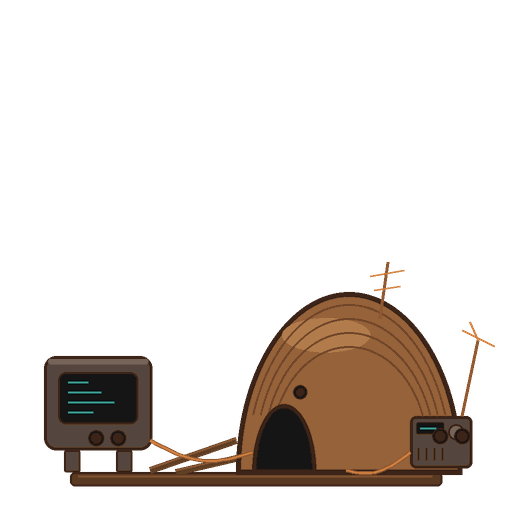
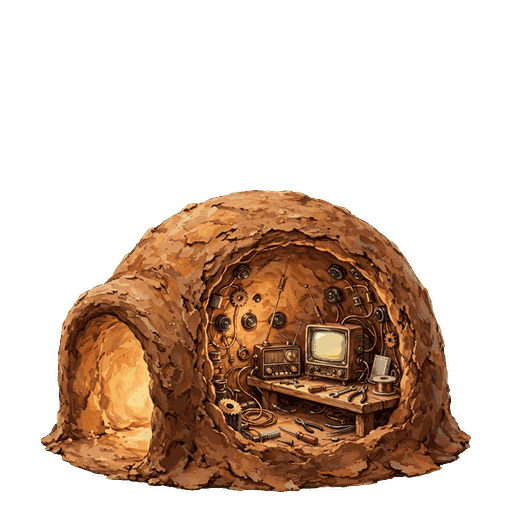
art(companion): definitive illustrated Nest workshop
Replaces the procedural final-stage dome with the reviewed
clay-oven workshop master (side entrance, CRT, radio, antennas,
tools), aligned screen rect and light sockets to the new art.
Earlier construction stages keep the procedural evolution.

diff --git a/scripts/companion_nest.py b/scripts/companion_nest.py
@@ -11,6 +11,8 @@ Stages: none, twigs, cup, dome, home. Drawn at 2x and downscaled.
 """
 from __future__ import annotations
 
+from pathlib import Path
+
 import math
 
 from PIL import Image, ImageDraw
@@ -42,14 +44,14 @@ SOCKET = (30, 20, 16, 255)
 # Light sockets (canvas px): id -> (x, y, radius, role). Roles are the
 # real states the runtime binds them to; the art never lights them.
 LIGHTS = {
-    "link": (96, 438, 6, "assistant-link"),
-    "run": (118, 438, 6, "assistant-run"),
-    "approval": (440, 436, 6, "approval"),
-    "radio": (462, 436, 6, "radio"),
-    "mode": (300, 392, 5, "mode"),
+    "link": (255, 385, 6, "assistant-link"),
+    "run": (280, 385, 6, "assistant-run"),
+    "approval": (415, 395, 6, "approval"),
+    "radio": (440, 395, 6, "radio"),
+    "mode": (321, 285, 5, "mode"),
 }
 # CRT screen rectangle (canvas px) for the runtime phosphor overlay.
-SCREEN_RECT = (58, 372, 138, 424)
+SCREEN_RECT = (294, 261, 349, 317)
 
 
 def _s(v):
@@ -199,6 +201,12 @@ def nest_image(stage: int) -> Image.Image:
         _dome(p)
         _pcb(p, 120, 440)
     else:
+        # Definitive home: the illustrated clay-workshop master
+        # (sources/nest-home-workshop.png, reviewed 2026-11-24).
+        # The procedural dome stays as fallback if it is missing.
+        master = Path(__file__).resolve().parent.parent / "assets/companion/sources/nest-home-workshop.png"
+        if master.is_file():
+            return Image.open(master).convert("RGBA")
         _twigs(p, 2)
         _dome(p)
         _antenna_dome(p)
